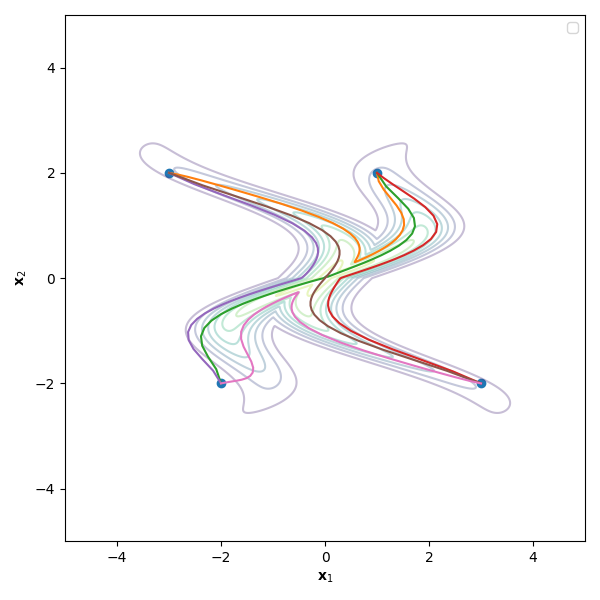
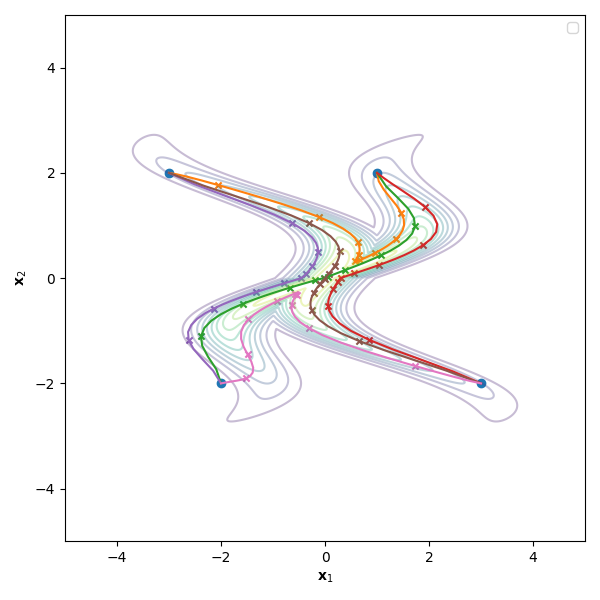
minor changes

Changed region(s): [[0.21, 0.21, 0.87, 0.72]]

diff --git a/src/diffeomorphisms/vector/star.py b/src/diffeomorphisms/vector/star.py
@@ -16,17 +16,15 @@ class StarVectorDiffeomorphism(VectorDiffeomorphism):
         :param x: N x d
         :return: N x d
         """
-        eps = 1e-12
+        eps = 1e-6
         r = torch.linalg.norm(x, dim=-1)              
 
         # safe theta
-        theta = torch.where(
-            (r > eps)[..., None],
-            x / (r + eps)[..., None],
-            torch.zeros_like(x),
-        )                                         
-
-        rho_theta = self.rho(theta)                  
+        theta = torch.zeros_like(x)
+        theta[r > eps] = x[r > eps] / r[r > eps][..., None]                 
+        
+        rho_theta = torch.zeros_like(r)
+        rho_theta[r > eps] = self.rho(theta[r > eps])               
 
         star_radius = r / (rho_theta + eps)        
         return theta * star_radius[..., None]  
@@ -38,17 +36,15 @@ class StarVectorDiffeomorphism(VectorDiffeomorphism):
         :param y: N x d
         :return: N x d
         """
-        eps = 1e-12
+        eps = 1e-6
         r = torch.linalg.norm(y, dim=-1)         
 
         # safe theta
-        theta = torch.where(
-            (r > eps)[..., None],
-            y / (r + eps)[..., None],
-            torch.zeros_like(y),
-        )                                            
-
-        rho_theta = self.rho(theta)             
+        theta = torch.zeros_like(y)
+        theta[r > eps] = y[r > eps] / r[r > eps][..., None]                 
+        
+        rho_theta = torch.zeros_like(r)
+        rho_theta[r > eps] = self.rho(theta[r > eps])
 
         star_radius = r * (rho_theta + eps)        
         return theta * star_radius[..., None]  